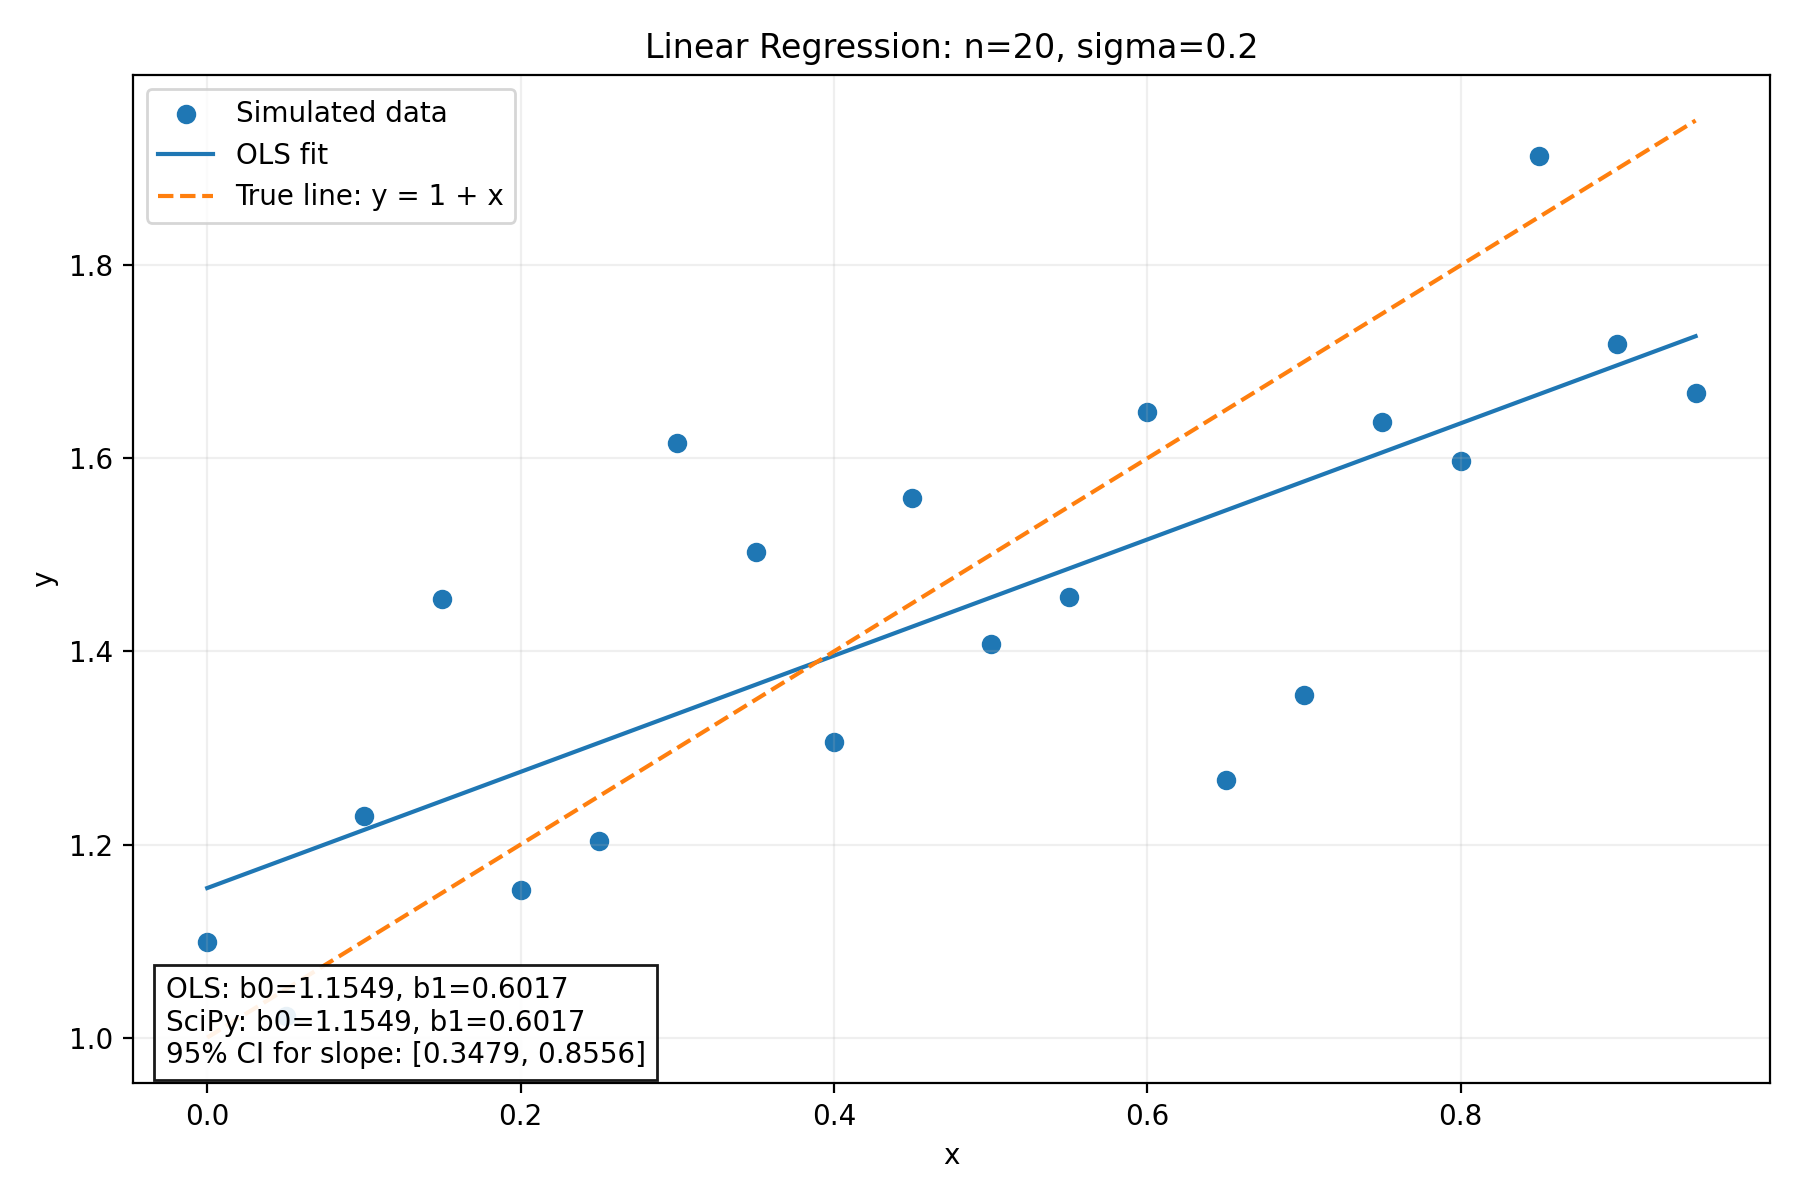
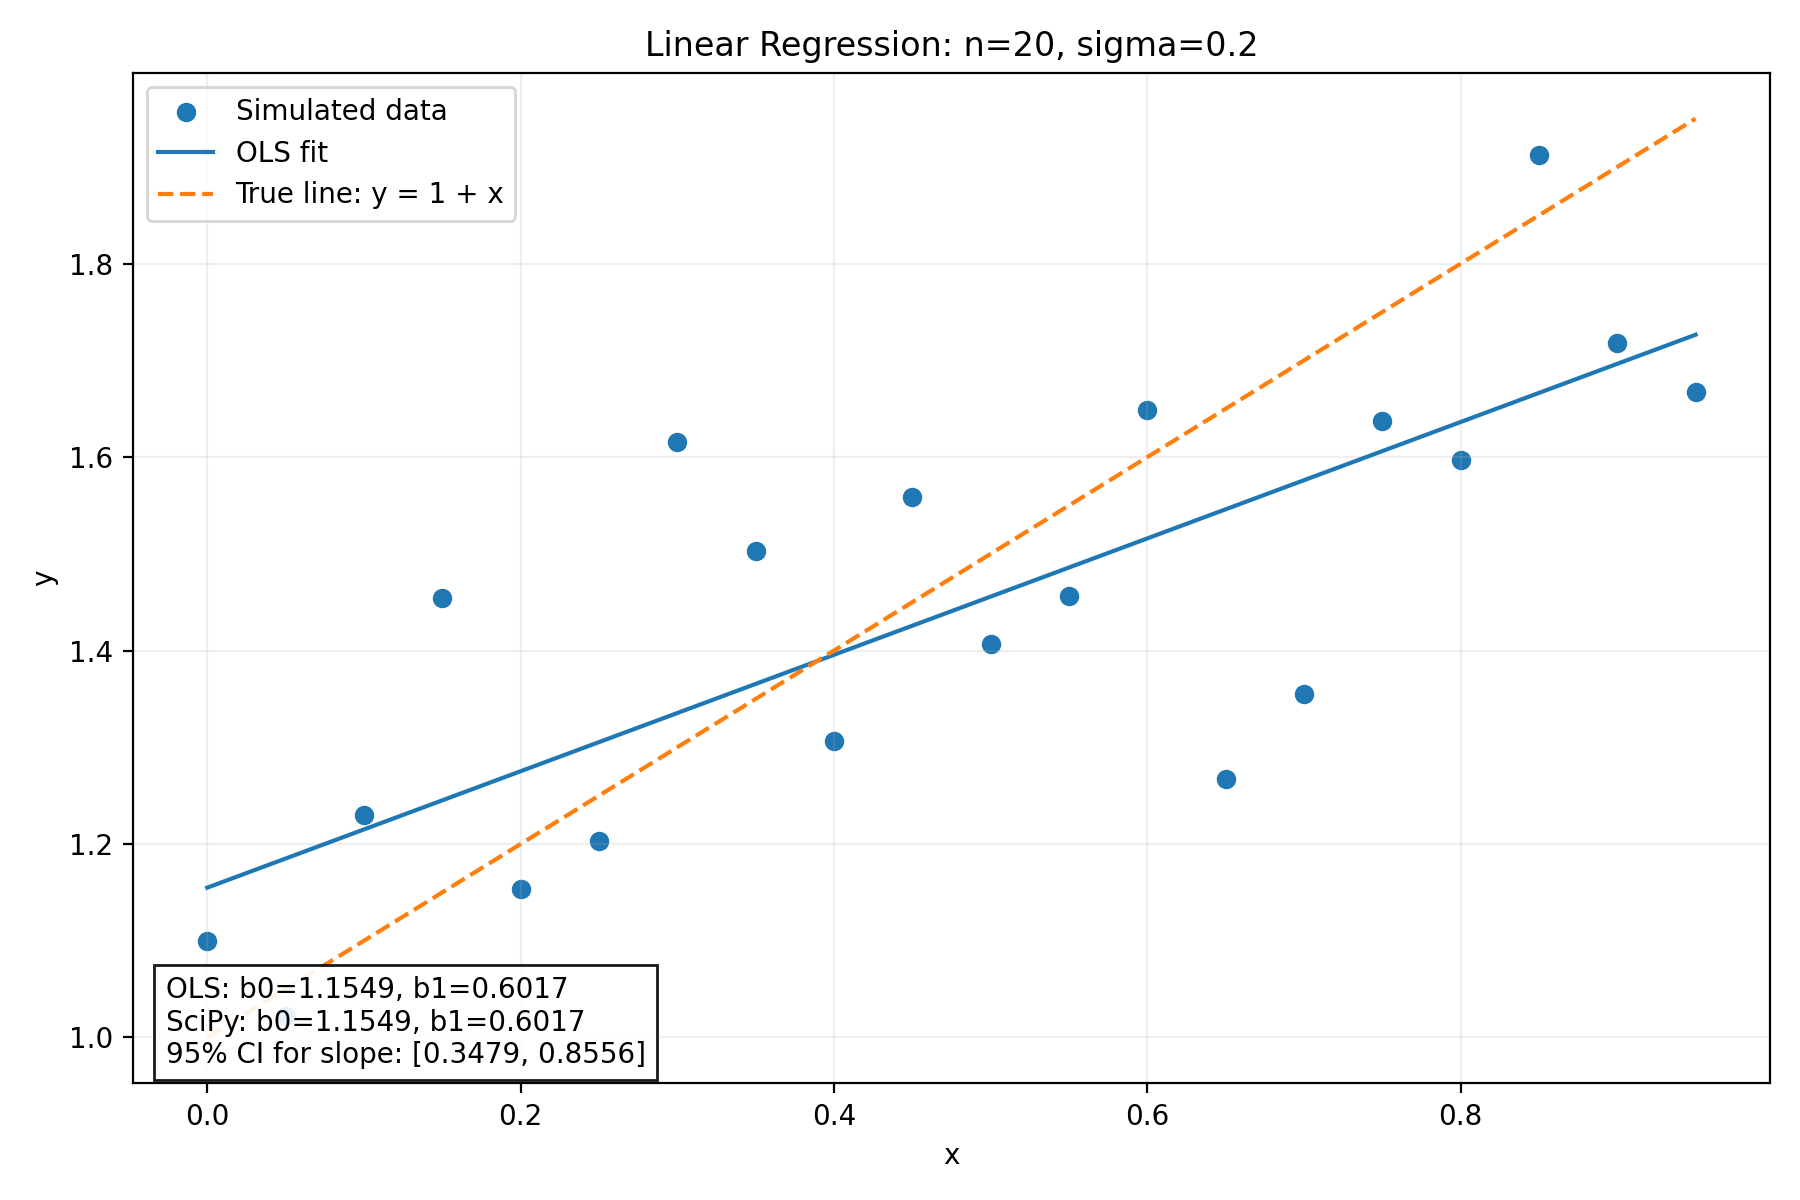
hw5_1

diff --git a/HW5_1.py b/HW5_1.py
@@ -37,6 +37,7 @@ print('\nQ2: calculated by hand equations')
 print('b0 =', b0, 'b1 =', b1)
 
 # Q3: SciPy library estimates
+# Note that linregress also returns the se for the slope, which can be used to check Devore's equations.
 res = linregress(x, y)
 print('\nQ3: SciPy linregress')
 print('b0 =', res.intercept, 'b1 =', res.slope)
